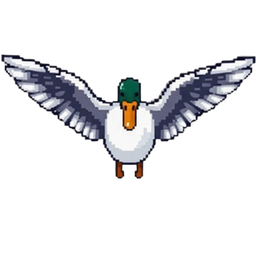
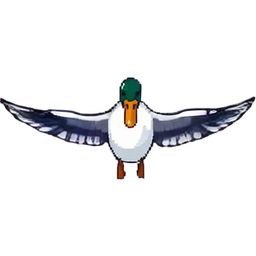
Skins: full wing beats from Wan 2.2 image-to-video
- tool/skins/wan_flap.py renders a 2 s clip of each duck flapping in place
  (Wan 2.2 I2V 14B, high/low-noise experts with the 4-step Seko LoRAs)
- tool/skins/wan_frames.py takes the first wing-beat cycle (6-10 frames),
  cuts it out and aligns it on the body axis; replaces the Kontext frames
- skins carry a frame count; the game plays any number of frames, one beat
  lasting as long as the vector duck's
- upload() takes a distinct name: same-named uploads queued together
  overwrote each other on ComfyUI and mixed frames between skins
- six skins animated so far: classic, kawaii, stainedglass, pixel16, robot, gold

Claude-Session: https://claude.ai/code/session_01RgN3Tb18gZGyX7VAoY2DAB

Changed region(s): [[0.0, 0.1875, 1.0, 0.7188]]

diff --git a/lib/game/skins/skin_catalog.dart b/lib/game/skins/skin_catalog.dart
@@ -3,10 +3,10 @@
 import 'skin.dart';
 
 const generatedSkins = <Skin>[
-  Skin(id: 'classic', name: 'Klasika', packId: 'free', packTitle: 'Základ (zdarma)', free: true, animated: true),
+  Skin(id: 'classic', name: 'Klasika', packId: 'free', packTitle: 'Základ (zdarma)', free: true, frames: 10),
   Skin(id: 'flat_vector', name: 'Flat vektor', packId: 'free', packTitle: 'Základ (zdarma)', free: true),
   Skin(id: 'watercolor', name: 'Akvarel', packId: 'free', packTitle: 'Základ (zdarma)', free: true),
-  Skin(id: 'pixel16', name: 'Pixel 16-bit', packId: 'free', packTitle: 'Základ (zdarma)', free: true, animated: true),
+  Skin(id: 'pixel16', name: 'Pixel 16-bit', packId: 'free', packTitle: 'Základ (zdarma)', free: true, frames: 7),
   Skin(id: 'storybook', name: 'Pohádková kniha', packId: 'free', packTitle: 'Základ (zdarma)', free: true),
   Skin(id: 'crayon', name: 'Pastelky', packId: 'free', packTitle: 'Základ (zdarma)', free: true),
   Skin(id: 'lowpoly', name: 'Low-poly', packId: 'free', packTitle: 'Základ (zdarma)', free: true),
@@ -35,7 +35,7 @@ const generatedSkins = <Skin>[
   Skin(id: 'bauhaus', name: 'Bauhaus', packId: 'art', packTitle: 'Galerie umění', free: false),
   Skin(id: 'manuscript', name: 'Iluminovaný rukopis', packId: 'art', packTitle: 'Galerie umění', free: false),
   Skin(id: 'egypt', name: 'Egyptská malba', packId: 'art', packTitle: 'Galerie umění', free: false),
-  Skin(id: 'kawaii', name: 'Kawaii', packId: 'cute', packTitle: 'Roztomilé', free: false, animated: true),
+  Skin(id: 'kawaii', name: 'Kawaii', packId: 'cute', packTitle: 'Roztomilé', free: false, frames: 10),
   Skin(id: 'plush', name: 'Plyšák', packId: 'cute', packTitle: 'Roztomilé', free: false),
   Skin(id: 'amigurumi', name: 'Háčkované', packId: 'cute', packTitle: 'Roztomilé', free: false),
   Skin(id: 'sticker', name: 'Samolepka', packId: 'cute', packTitle: 'Roztomilé', free: false),
@@ -46,7 +46,7 @@ const generatedSkins = <Skin>[
   Skin(id: 'cottage', name: 'Cottagecore', packId: 'cute', packTitle: 'Roztomilé', free: false),
   Skin(id: 'pastelgoth', name: 'Pastel goth', packId: 'cute', packTitle: 'Roztomilé', free: false),
   Skin(id: 'origami', name: 'Origami', packId: 'materials', packTitle: 'Materiály', free: false),
-  Skin(id: 'stainedglass', name: 'Vitráž', packId: 'materials', packTitle: 'Materiály', free: false, animated: true),
+  Skin(id: 'stainedglass', name: 'Vitráž', packId: 'materials', packTitle: 'Materiály', free: false, frames: 8),
   Skin(id: 'mosaic', name: 'Mozaika', packId: 'materials', packTitle: 'Materiály', free: false),
   Skin(id: 'porcelain', name: 'Porcelán', packId: 'materials', packTitle: 'Materiály', free: false),
   Skin(id: 'woodtoy', name: 'Dřevěná hračka', packId: 'materials', packTitle: 'Materiály', free: false),
@@ -85,7 +85,7 @@ const generatedSkins = <Skin>[
   Skin(id: 'madhubani', name: 'Madhubani', packId: 'world', packTitle: 'Lidové umění světa', free: false),
   Skin(id: 'persian', name: 'Perská miniatura', packId: 'world', packTitle: 'Lidové umění světa', free: false),
   Skin(id: 'tapa', name: 'Tapa', packId: 'world', packTitle: 'Lidové umění světa', free: false),
-  Skin(id: 'robot', name: 'Robot', packId: 'fantasy', packTitle: 'Fantasy & sci-fi', free: false, animated: true),
+  Skin(id: 'robot', name: 'Robot', packId: 'fantasy', packTitle: 'Fantasy & sci-fi', free: false, frames: 6),
   Skin(id: 'astronaut', name: 'Kosmonaut', packId: 'fantasy', packTitle: 'Fantasy & sci-fi', free: false),
   Skin(id: 'alien', name: 'Mimozemšťan', packId: 'fantasy', packTitle: 'Fantasy & sci-fi', free: false),
   Skin(id: 'dragon', name: 'Drak', packId: 'fantasy', packTitle: 'Fantasy & sci-fi', free: false),
@@ -105,7 +105,7 @@ const generatedSkins = <Skin>[
   Skin(id: 'graffiti', name: 'Graffiti', packId: 'nature', packTitle: 'Příroda a realismus', free: false),
   Skin(id: 'charcoal', name: 'Uhel', packId: 'nature', packTitle: 'Příroda a realismus', free: false),
   Skin(id: 'pencil', name: 'Tužka', packId: 'nature', packTitle: 'Příroda a realismus', free: false),
-  Skin(id: 'gold', name: 'Zlato', packId: 'luxe', packTitle: 'Luxus', free: false, animated: true),
+  Skin(id: 'gold', name: 'Zlato', packId: 'luxe', packTitle: 'Luxus', free: false, frames: 6),
   Skin(id: 'diamond', name: 'Diamant', packId: 'luxe', packTitle: 'Luxus', free: false),
   Skin(id: 'royal', name: 'Královská', packId: 'luxe', packTitle: 'Luxus', free: false),
   Skin(id: 'fabrege', name: 'Smaltované vejce', packId: 'luxe', packTitle: 'Luxus', free: false),

diff --git a/lib/game/skins/skin.dart b/lib/game/skins/skin.dart
@@ -9,7 +9,7 @@ class Skin {
     required this.packId,
     required this.packTitle,
     required this.free,
-    this.animated = false,
+    this.frames = 1,
   });
 
   final String id;
@@ -21,9 +21,11 @@ class Skin {
   /// everything is unlocked).
   final bool free;
 
-  /// Has three wing-beat frames (`<id>_0..2.png`); otherwise one picture
-  /// that the game squashes to fake the beat.
-  final bool animated;
+  /// Wing-beat frames (`<id>_0.png` …), one full beat in order; 1 = a single
+  /// picture that the game squashes to fake the beat.
+  final int frames;
+
+  bool get animated => frames > 1;
 
   static const vector = Skin(id: 'vector', name: 'Původní', packId: 'base', packTitle: 'Původní', free: true);
 
@@ -35,9 +37,9 @@ class Skin {
   String get duckAsset => 'skins/duck/$id.png';
   String get backgroundAsset => 'skins/bg/$id.jpg';
 
-  /// The sprites the game flies: frames 0 (up), 1 (level), 2 (down), or
-  /// the single picture.
-  List<String> get duckFrameAssets => animated ? [for (var i = 0; i < 3; i++) 'skins/duck/${id}_$i.png'] : [duckAsset];
+  /// The sprites the game flies: one beat of frames, or the single picture.
+  List<String> get duckFrameAssets =>
+      animated ? [for (var i = 0; i < frames; i++) 'skins/duck/${id}_$i.png'] : [duckAsset];
 
   static Skin byId(String id) => all.firstWhere((s) => s.id == id, orElse: () => vector);
 }

diff --git a/lib/game/components/duck_component.dart b/lib/game/components/duck_component.dart
@@ -39,7 +39,7 @@ class DuckComponent extends TargetComponent {
   final GameConfig config;
   final DuckPainter painter;
 
-  /// The skin's duck pictures (head at the bottom): one per wing-beat frame,
+  /// The skin's duck pictures (head at the bottom): one wing beat in order,
   /// or a single one that gets squashed. Null = vector duck.
   final List<Image>? sprites;
 
@@ -137,8 +137,12 @@ class DuckComponent extends TargetComponent {
     final sprites = this.sprites;
     if (sprites == null) {
       painter.paint(canvas, frame, opacity: _opacity.clamp(0, 1));
-    } else if (sprites.length == DuckPainter.frames) {
-      _paintSprite(canvas, sprites[frame]);
+    } else if (sprites.length > 1) {
+      // A whole beat takes as long as the vector duck's three frames.
+      final beat = state == DuckState.falling
+          ? sprites.length ~/ 2
+          : ((_age + _flapOffset) * _flapRate * sprites.length / DuckPainter.frames).floor() % sprites.length;
+      _paintSprite(canvas, sprites[beat]);
     } else {
       canvas.scale(_spriteFlap[frame], 1);
       _paintSprite(canvas, sprites.first);

diff --git a/tool/skins/wan_flap.py b/tool/skins/wan_flap.py
@@ -1,0 +1,108 @@
+"""Wing-beat clips from a duck sprite with Wan 2.2 image-to-video on ComfyUI.
+
+    COMFYUI_API_URL=https://comfyui.ol1n.com python3 tool/skins/wan_flap.py classic,robot,...
+
+The generated duck becomes the first frame of a short clip of it flapping in
+place (14B I2V, high/low-noise experts with the 4-step Seko LoRAs). Every
+frame is saved to tool/skins/out/wan/<id>/f_NN.png for wan_frames.py to pick
+one wing-beat cycle from.
+"""
+
+import random
+import sys
+import time
+from pathlib import Path
+
+HERE = Path(__file__).resolve().parent
+sys.path.insert(0, str(HERE))
+from export_to_app import upload  # noqa: E402
+from generate import DEFAULT_ENV, Comfy, load_env  # noqa: E402
+
+OUT = HERE / "out"
+WAN = OUT / "wan"
+SIZE = 512
+LENGTH = 33  # 2 s at 16 fps: several beats
+
+PROMPT = ("The duck flaps its wings up and down in a strong steady rhythm, full wing beats, "
+          "seen from directly above. The body stays still in the centre of the frame, "
+          "static camera, the plain light grey background does not change.")
+NEGATIVE = ("camera movement, zoom, panning, rotation, the bird moving across the frame, flying away, "
+            "background change, blurry, distorted, extra wings, extra limbs, text, watermark")
+
+
+def wan_graph(image_name, seed, prefix):
+    def expert(unet_id, lora_id, shift_id, unet, lora):
+        return {
+            unet_id: {"class_type": "UNETLoader", "inputs": {"unet_name": unet, "weight_dtype": "default"}},
+            lora_id: {"class_type": "LoraLoaderModelOnly", "inputs": {"model": [unet_id, 0], "lora_name": lora, "strength_model": 1.0}},
+            shift_id: {"class_type": "ModelSamplingSD3", "inputs": {"model": [lora_id, 0], "shift": 5.0}},
+        }
+
+    g = {
+        **expert("1", "2", "3", "wan2.2_i2v_high_noise_14B_fp8_scaled.safetensors",
+                 "Wan2.2-I2V-A14B-4steps-lora-rank64-Seko-V1_high_noise_model.safetensors"),
+        **expert("4", "5", "6", "wan2.2_i2v_low_noise_14B_fp8_scaled.safetensors",
+                 "Wan2.2-I2V-A14B-4steps-lora-rank64-Seko-V1_low_noise_model.safetensors"),
+        "7": {"class_type": "CLIPLoader", "inputs": {"clip_name": "umt5_xxl_fp8_e4m3fn_scaled.safetensors", "type": "wan", "device": "default"}},
+        "8": {"class_type": "CLIPTextEncode", "inputs": {"text": PROMPT, "clip": ["7", 0]}},
+        "9": {"class_type": "CLIPTextEncode", "inputs": {"text": NEGATIVE, "clip": ["7", 0]}},
+        "10": {"class_type": "VAELoader", "inputs": {"vae_name": "wan_2.1_vae.safetensors"}},
+        "11": {"class_type": "LoadImage", "inputs": {"image": image_name}},
+        "12": {"class_type": "WanImageToVideo", "inputs": {
+            "positive": ["8", 0], "negative": ["9", 0], "vae": ["10", 0], "start_image": ["11", 0],
+            "width": SIZE, "height": SIZE, "length": LENGTH, "batch_size": 1}},
+        "13": {"class_type": "KSamplerAdvanced", "inputs": {
+            "model": ["3", 0], "add_noise": "enable", "noise_seed": seed, "steps": 4, "cfg": 1.0,
+            "sampler_name": "euler", "scheduler": "simple", "positive": ["12", 0], "negative": ["12", 1],
+            "latent_image": ["12", 2], "start_at_step": 0, "end_at_step": 2, "return_with_leftover_noise": "enable"}},
+        "14": {"class_type": "KSamplerAdvanced", "inputs": {
+            "model": ["6", 0], "add_noise": "disable", "noise_seed": seed, "steps": 4, "cfg": 1.0,
+            "sampler_name": "euler", "scheduler": "simple", "positive": ["12", 0], "negative": ["12", 1],
+            "latent_image": ["13", 0], "start_at_step": 2, "end_at_step": 10000, "return_with_leftover_noise": "disable"}},
+        "15": {"class_type": "VAEDecode", "inputs": {"samples": ["14", 0], "vae": ["10", 0]}},
+        "16": {"class_type": "SaveImage", "inputs": {"filename_prefix": prefix, "images": ["15", 0]}},
+    }
+    return g
+
+
+def all_images(comfy, pid):
+    """Every image of a finished prompt, in order; None while it runs."""
+    import json
+    hist = json.loads(comfy._req(f"/history/{pid}"))
+    if pid not in hist:
+        return None
+    entry = hist[pid]
+    if entry.get("status", {}).get("status_str") == "error":
+        raise RuntimeError(f"comfy error: {json.dumps(entry.get('status'))[:600]}")
+    return [img for node in entry.get("outputs", {}).values() for img in node.get("images", [])]
+
+
+def main():
+    if len(sys.argv) < 2:
+        sys.exit(__doc__)
+    ids = sys.argv[1].split(",")
+    load_env(str(DEFAULT_ENV))
+    comfy = Comfy()
+    pending = {}
+    for sid in ids:
+        if (WAN / sid / "f_00.png").exists():
+            continue
+        name = upload(comfy, OUT / "duck" / f"{sid}.jpg")
+        pending[comfy.submit(wan_graph(name, random.randrange(2**32), f"kaceny_wan_{sid}"))] = sid
+    print(f"rendering {len(pending)} clips", flush=True)
+    t0 = time.time()
+    while pending:
+        time.sleep(5)
+        for pid in list(pending):
+            imgs = all_images(comfy, pid)
+            if imgs is None:
+                continue
+            sid = pending.pop(pid)
+            (WAN / sid).mkdir(parents=True, exist_ok=True)
+            for i, img in enumerate(imgs):
+                (WAN / sid / f"f_{i:02d}.png").write_bytes(comfy.download(img))
+            print(f"  {sid}: {len(imgs)} frames ({time.time() - t0:.0f}s)", flush=True)
+
+
+if __name__ == "__main__":
+    main()

diff --git a/tool/skins/wan_frames.py b/tool/skins/wan_frames.py
@@ -1,0 +1,82 @@
+"""Turn Wan flap clips (wan_flap.py) into the game's wing-beat sprites.
+
+    COMFYUI_API_URL=https://comfyui.ol1n.com python3 tool/skins/wan_frames.py classic,robot,...
+
+Takes the FIRST wing-beat cycle of each clip (later in the clip Wan tends to
+turn the bird around): the cycle ends at the frame most like frame 0. Those
+frames are cut out on ComfyUI, aligned on the body axis and cropped with one
+shared box -> assets/skins/duck/<id>_0..N-1.png, replacing Kontext frames.
+"""
+
+import sys
+from pathlib import Path
+
+from PIL import Image, ImageChops, ImageStat
+
+HERE = Path(__file__).resolve().parent
+sys.path.insert(0, str(HERE))
+from animate import body_axis, wait  # noqa: E402
+from export_to_app import ASSETS, SPRITE_PX, cutout_graph, upload, write_all_catalog  # noqa: E402
+from generate import DEFAULT_ENV, Comfy, load_env  # noqa: E402
+
+WAN = HERE / "out" / "wan"
+MIN_CYCLE, MAX_CYCLE = 6, 16
+
+
+def cycle_length(sid):
+    """Frames in the first beat: the index (6..16) of the frame most like frame 0."""
+    def thumb(n):
+        return Image.open(WAN / sid / f"f_{n:02d}.png").convert("L").resize((64, 64))
+
+    first = thumb(0)
+    frames = sorted(WAN.joinpath(sid).glob("f_*.png"))
+    scores = {n: ImageStat.Stat(ImageChops.difference(first, thumb(n))).mean[0]
+              for n in range(MIN_CYCLE, min(MAX_CYCLE, len(frames) - 1) + 1)}
+    return min(scores, key=scores.get)
+
+
+def main():
+    if len(sys.argv) < 2:
+        sys.exit(__doc__)
+    ids = sys.argv[1].split(",")
+    load_env(str(DEFAULT_ENV))
+    comfy = Comfy()
+
+    cycles = {sid: cycle_length(sid) for sid in ids}
+    pending = {}
+    for sid, n_frames in cycles.items():
+        print(f"{sid}: cycle of {n_frames} frames", flush=True)
+        for n in range(n_frames):
+            if (WAN / sid / f"c_{n:02d}.png").exists():
+                continue
+            name = upload(comfy, WAN / sid / f"f_{n:02d}.png", name=f"wan_{sid}_{n:02d}.png")
+            pending[comfy.submit(cutout_graph(name, f"kaceny_wancut_{sid}_{n}"))] = (sid, n)
+    print(f"cutting {len(pending)} frames", flush=True)
+    wait(comfy, pending, lambda key, png: (WAN / key[0] / f"c_{key[1]:02d}.png").write_bytes(png))
+
+    for sid, n_frames in cycles.items():
+        frames = [Image.open(WAN / sid / f"c_{n:02d}.png").convert("RGBA") for n in range(n_frames)]
+        rx, ry, rlen = body_axis(frames[0])
+        aligned = []
+        for f in frames:
+            x, y, length = body_axis(f)
+            k = rlen / length
+            scaled = f.resize((round(f.width * k), round(f.height * k)), Image.LANCZOS)
+            canvas = Image.new("RGBA", f.size, (0, 0, 0, 0))
+            canvas.paste(scaled, (round(rx - x * k), round(ry - y * k)), scaled)
+            aligned.append(canvas)
+        boxes = [a.getchannel("A").point(lambda v: 255 if v > 24 else 0).getbbox() for a in aligned]
+        half = max(max(rx - b[0], b[2] - rx, ry - b[1], b[3] - ry) for b in boxes)
+        box = (round(rx - half), round(ry - half), round(rx + half), round(ry + half))
+        for old in ASSETS.joinpath("duck").glob(f"{sid}_*.png"):
+            if old.stem[len(sid) + 1:].isdigit():  # only this skin's frames
+                old.unlink()
+        for n, a in enumerate(aligned):
+            a.crop(box).resize((SPRITE_PX, SPRITE_PX), Image.LANCZOS).save(
+                ASSETS / "duck" / f"{sid}_{n}.png", optimize=True)
+    write_all_catalog()
+    print(f"wan frames for {len(ids)} skins")
+
+
+if __name__ == "__main__":
+    main()

diff --git a/tool/skins/export_to_app.py b/tool/skins/export_to_app.py
@@ -35,10 +35,12 @@ CATALOG = ROOT / "lib" / "game" / "skins" / "skin_catalog.dart"
 SPRITE_PX = 256
 
 
-def upload(comfy, path):
+def upload(comfy, path, name=None):
+    """Upload to ComfyUI's input folder. Uploads overwrite by name, so files
+    queued at the same time need distinct names (pass `name`)."""
     boundary = uuid.uuid4().hex
     body = (
-        f"--{boundary}\r\nContent-Disposition: form-data; name=\"image\"; filename=\"kaceny_{path.name}\"\r\n"
+        f"--{boundary}\r\nContent-Disposition: form-data; name=\"image\"; filename=\"kaceny_{name or path.name}\"\r\n"
         f"Content-Type: image/jpeg\r\n\r\n"
     ).encode() + path.read_bytes() + f"\r\n--{boundary}\r\nContent-Disposition: form-data; name=\"overwrite\"\r\n\r\ntrue\r\n--{boundary}--\r\n".encode()
     import urllib.request
@@ -95,13 +97,21 @@ def dart_str(s):
     return "'" + s.replace("\\", "\\\\").replace("'", "\\'") + "'"
 
 
+def frame_count(sid):
+    """Wing-beat frames exported for a skin (<id>_0.png, <id>_1.png, ...); 1 = the single sprite."""
+    n = 0
+    while (ASSETS / "duck" / f"{sid}_{n}.png").exists():
+        n += 1
+    return max(n, 1)
+
+
 def all_styles():
     return [(pid, title, tier, sid, name)
             for pid, (title, tier, items) in PACKS.items() for sid, name, _, _ in items]
 
 
 def write_all_catalog():
-    """Every exported style; `animated` where animate.py made wing-beat frames."""
+    """Every exported style, with its wing-beat frame count (animate.py / wan_frames.py)."""
     styles = [s for s in all_styles() if (ASSETS / "duck" / f"{s[3]}.png").exists()]
     lines = [
         "// GENERATED by tool/skins/export_to_app.py — do not edit by hand.",
@@ -114,7 +124,7 @@ def write_all_catalog():
         lines.append(
             f"  Skin(id: {dart_str(sid)}, name: {dart_str(name)}, packId: {dart_str(pack_id)}, "
             f"packTitle: {dart_str(pack_title)}, free: {'true' if tier == 'free' else 'false'}"
-            f"{', animated: true' if (ASSETS / 'duck' / f'{sid}_0.png').exists() else ''}),"
+            f"{f', frames: {frames}' if (frames := frame_count(sid)) > 1 else ''}),"
         )
     lines += ["];", ""]
     CATALOG.parent.mkdir(parents=True, exist_ok=True)
